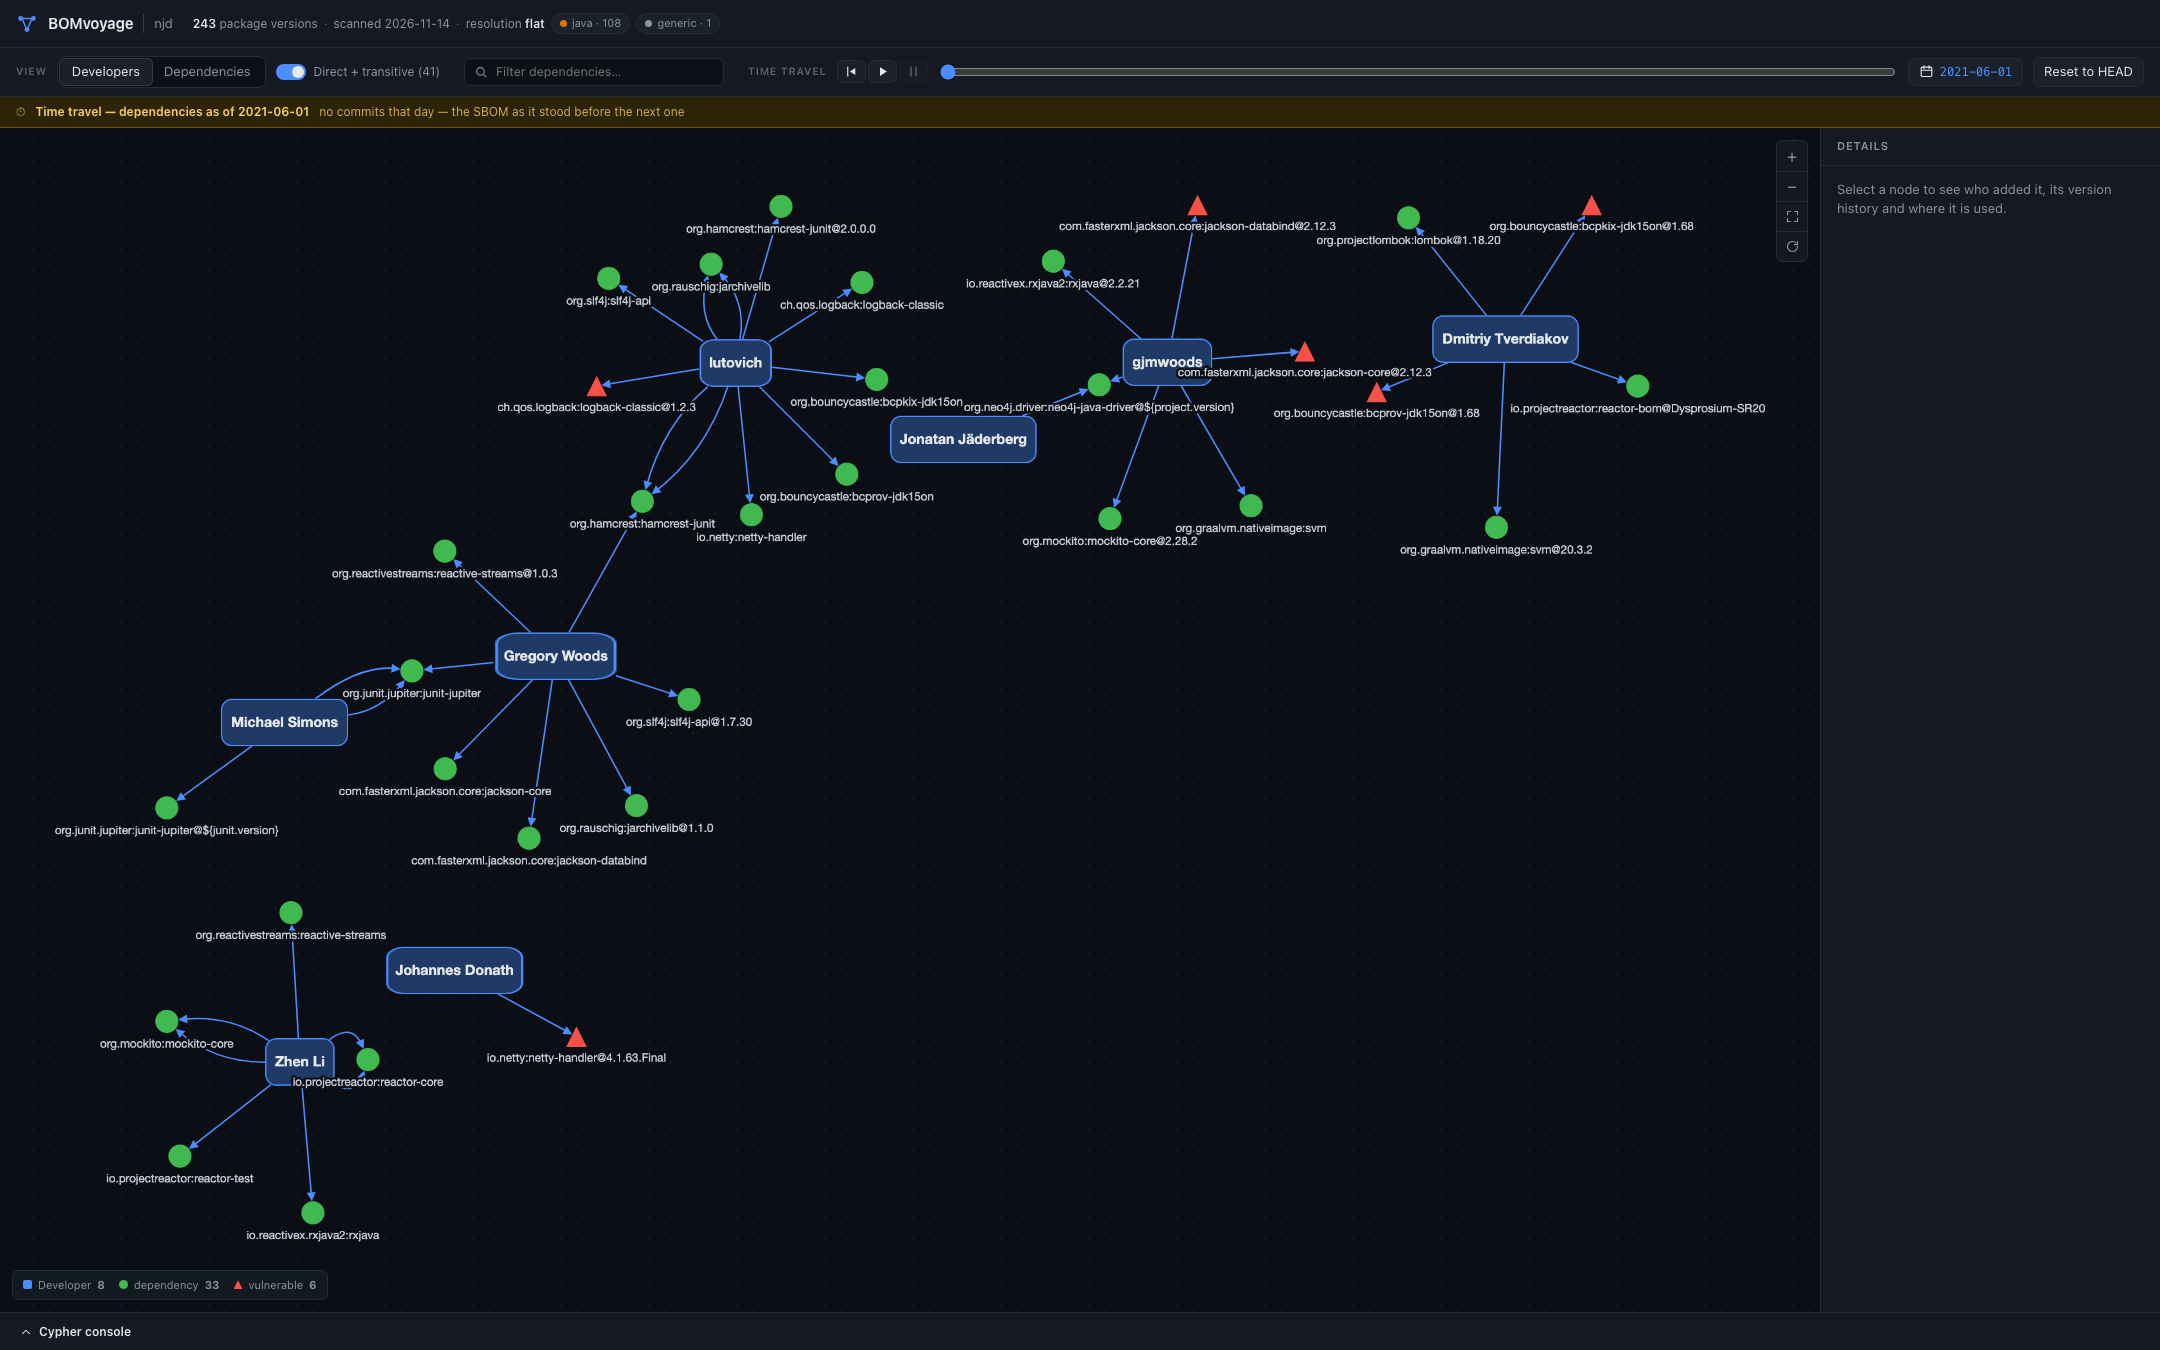
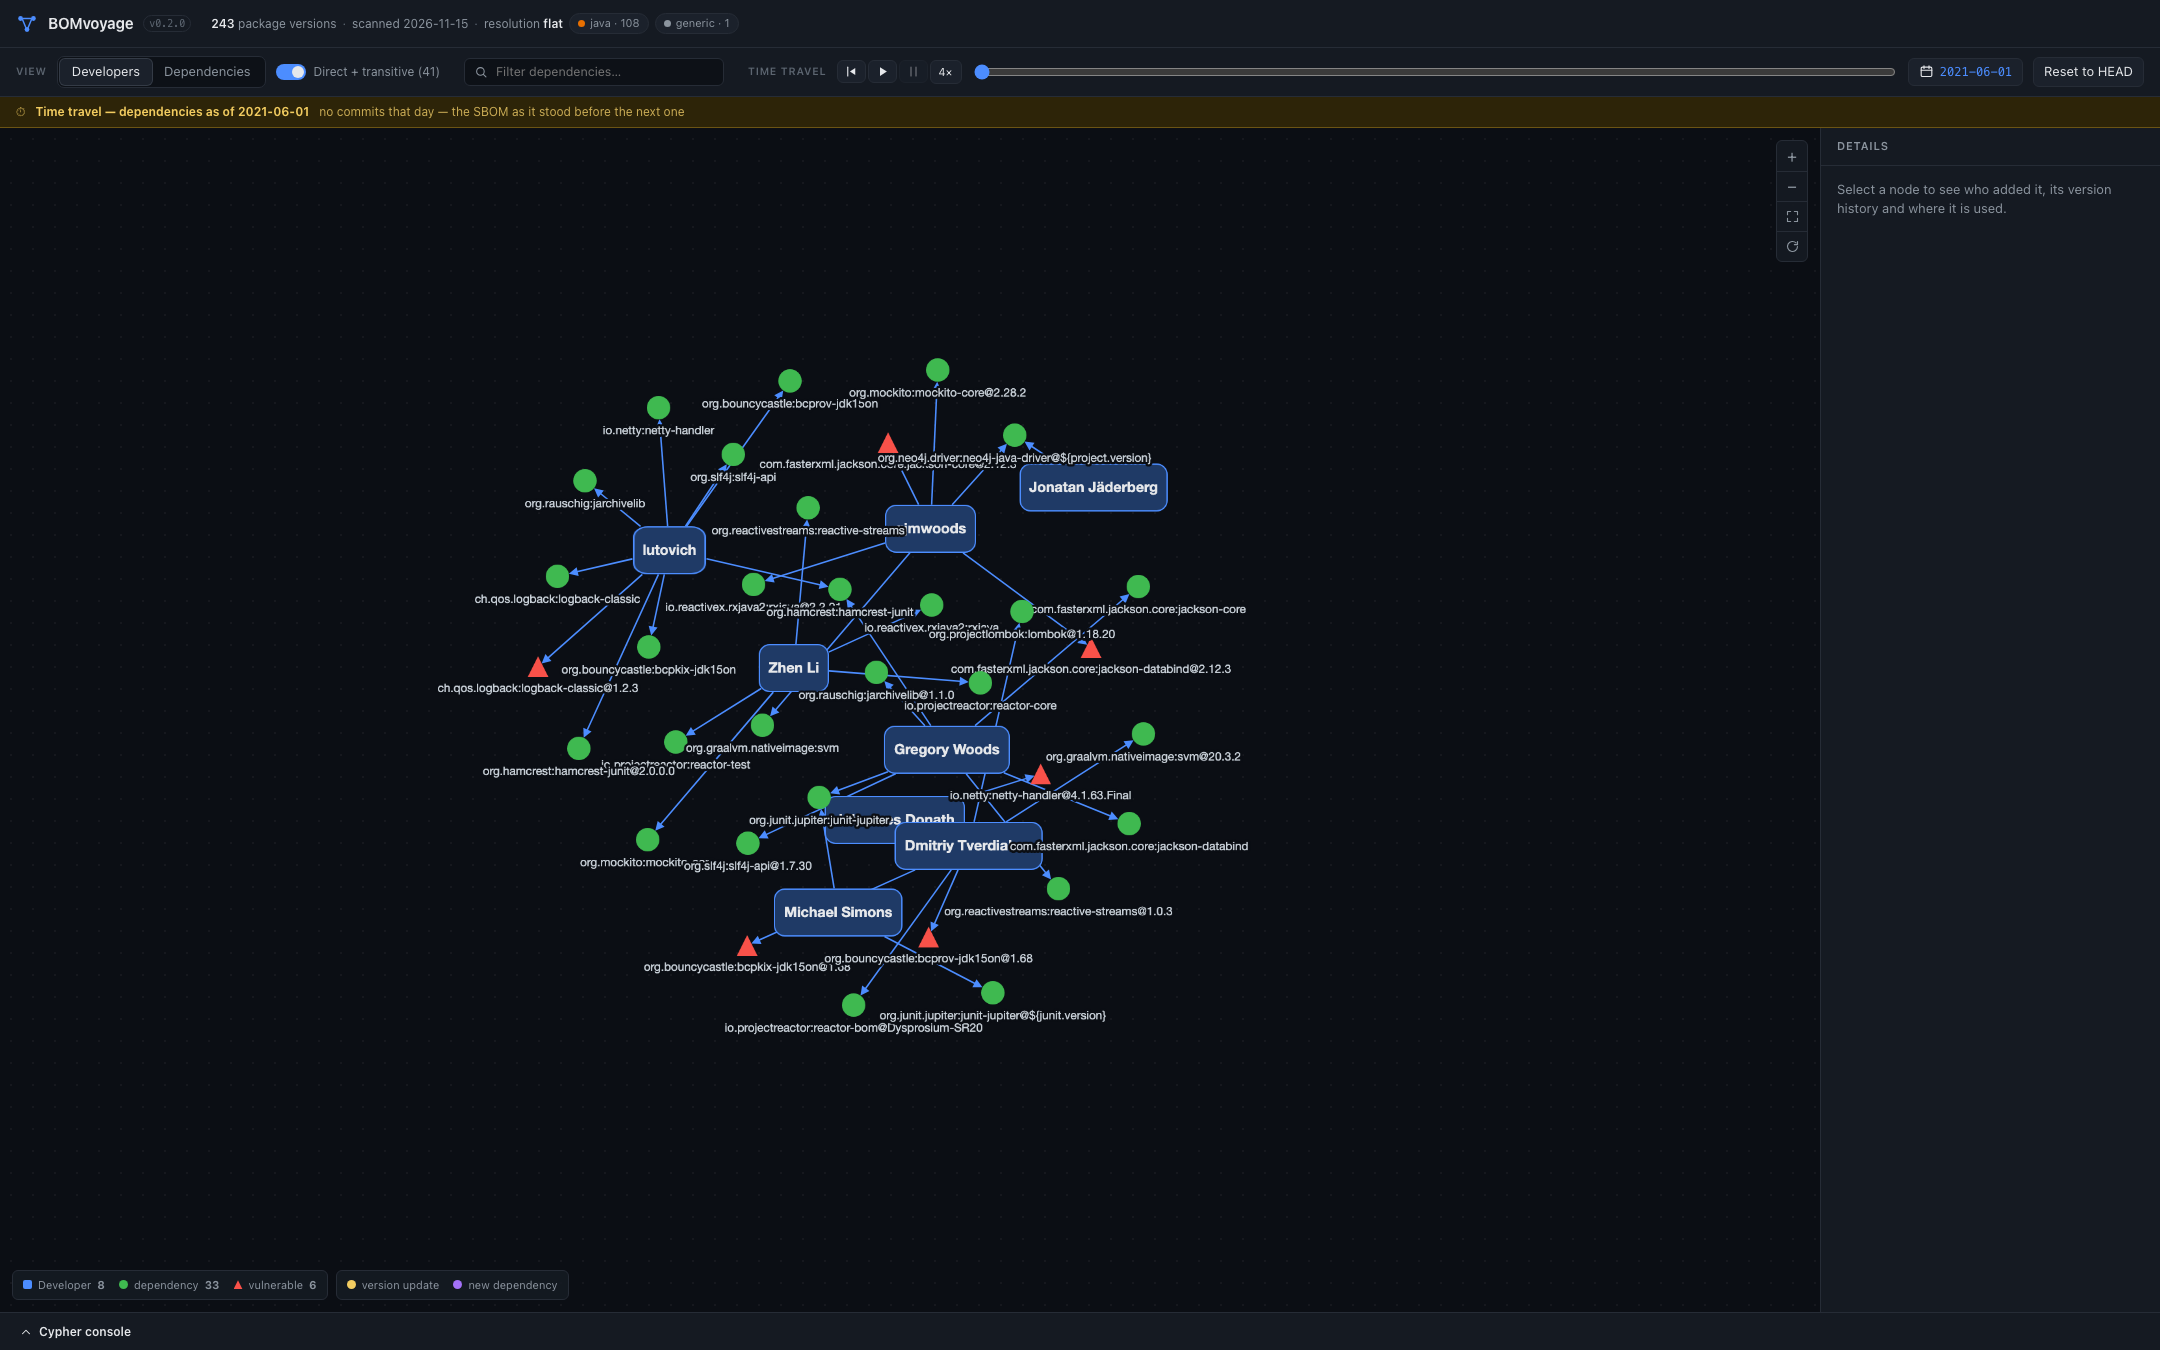
docs: refreshed screenshots; arrivals animation GIF
- developers/dependencies/package-inspector regenerated from the
  current UI (version chip, motion legend, 4x control)
- arrivals.gif: 395 KB, 28 frames at 560px — graph-only capture of
  dependencies arriving (purple) and version bumps landing (yellow)
  with their slow fade to green, embedded in the time-travel section

diff --git a/README.md b/README.md
@@ -54,7 +54,15 @@ explains them): a **newly added dependency arrives purple**, a **version
 update arrives yellow** on the replaced version's spot — each outlined in
 pink while it lands, then fading to the package's standing color: **green**,
 or **red** when the version ships with known security advisories (a
-vulnerable package never animates as green). The sweep controls
+vulnerable package never animates as green).
+
+**Time travel in motion** — dependencies arriving, version bumps landing
+on the replaced version's spot, and the slow fade to each package's
+standing color (graph only, 4× speed):
+
+![New dependencies and version updates animating in during time travel](docs/screenshots/arrivals.gif)
+
+The sweep controls
 (⏮ ▶ ⏸) play the whole history day by day as an animation — each step
 waits for the day's motion to finish before advancing, so nothing is
 chopped mid-glide — and **4×** quadruples the playback speed; pausing
